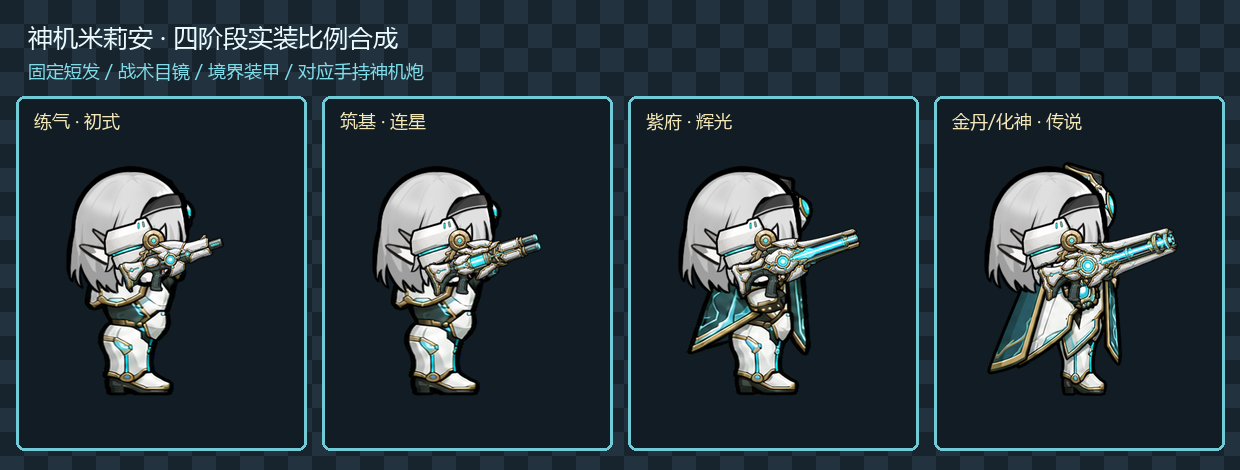
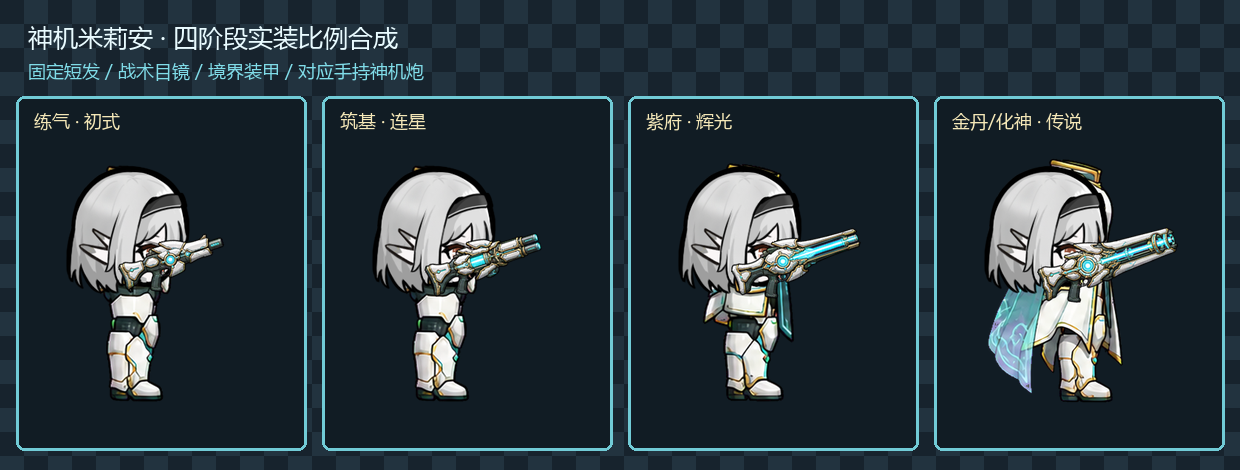
Fix Yunjianzi fringe and Shenji carried-weapon silhouette

diff --git a/Source/rebuild_hair_and_render_structure.py b/Source/rebuild_hair_and_render_structure.py
@@ -73,7 +73,7 @@ def tint_south_hair_tips(image: Image.Image) -> Image.Image:
     """
     result = image.copy().convert("RGBA")
     pixels = result.load()
-    start_y, end_y = 318, 452
+    start_y, end_y = 306, 402
     target = (112, 211, 232)
     for y in range(start_y, min(end_y + 1, result.height)):
         vertical = max(0.0, min(1.0, (y - start_y) / (end_y - start_y)))
@@ -118,16 +118,28 @@ def tint_front_fringe(image: Image.Image, direction: str) -> Image.Image:
     return result
 
 
-def lengthen_south_fringe(image: Image.Image) -> Image.Image:
-    """Lower the approved front fringe without scaling the side locks.
+def reshape_south_front(image: Image.Image) -> Image.Image:
+    """Increase central fringe volume while shortening only the side locks.
 
-    Only the central bang mass is stretched; the outer long locks and skull
-    attachment remain on their calibrated Milira anchors.
+    The previous revision interpreted "more forehead hair" as longer side
+    strands.  This pass keeps the central fringe at the approved eye line,
+    widens it across the forehead, and compresses the two lateral locks so the
+    separate rear-hair silhouette remains visible from the south view.
     """
     result = image.copy().convert("RGBA")
-    box = (190, 220, 322, 311)
-    fringe = image.crop(box).resize((box[2] - box[0], 108), Image.Resampling.LANCZOS)
-    result.alpha_composite(fringe, (box[0], box[1]))
+
+    # Shorten the lower halves of the two side locks without moving their
+    # temple anchors.  The tapered cyan tips are preserved by compression.
+    for box in ((170, 286, 232, 460), (280, 286, 342, 460)):
+        lower = image.crop(box).resize((box[2] - box[0], 116), Image.Resampling.LANCZOS)
+        result.paste((0, 0, 0, 0), box)
+        result.alpha_composite(lower, (box[0], box[1]))
+
+    # Widen, rather than lengthen, the central bang mass.  Its lower edge stays
+    # at y=311, so the eyes remain open and the jade chain keeps its anchor.
+    box = (210, 220, 302, 311)
+    fringe = image.crop(box).resize((124, box[3] - box[1]), Image.Resampling.LANCZOS)
+    result.alpha_composite(fringe, (194, box[1]))
     return result
 
 
@@ -228,7 +240,7 @@ def rebuild_hair() -> None:
     # South keeps the approved fringe and north keeps the tied rear silhouette.
     # East/west use one coherent profile redraw derived from the fixed Milira
     # head; mirroring that source guarantees identical skull attachment points.
-    front_south = tint_south_hair_tips(lengthen_south_fringe(rgba(CALIBRATED_FRONT / "YunjianziHairFront_south.png")))
+    front_south = tint_south_hair_tips(reshape_south_front(rgba(CALIBRATED_FRONT / "YunjianziHairFront_south.png")))
     back_south = extract_component(master, (220, 380, 480, 990), (183, 316), (164, 160))
     back_north = extract_component(master, (1030, 380, 1290, 990), (185, 337), (163, 160))
     # The authored side sprite already frames the single native Milira ear.
@@ -246,16 +258,15 @@ def rebuild_hair() -> None:
     save_cell(unified_east, "HairFront", "YunjianziHairFront", "east")
     save_cell(back_north, "HairFront", "YunjianziHairFront", "north")
 
-    # Keep a native Milira HairBG node for variant linkage. The continuous long
-    # silhouette lives in HairMain; all rear sprites remain transparent so the
-    # exposed MiliraHead4 ear cannot be mistaken for a hole in a second wig.
-    save_cell(Image.new("RGBA", (512, 512)), "HairBack", "YunjianziHairBack", "south")
+    # South needs its real tied rear hair in HairBG.  It is deliberately behind
+    # the robe/head/front fringe, which lets its outer silhouette show from the
+    # front without ever covering the face.
+    save_cell(back_south, "HairBack", "YunjianziHairBack", "south")
     save_cell(Image.new("RGBA", (512, 512)), "HairBack", "YunjianziHairBack", "west")
     save_cell(Image.new("RGBA", (512, 512)), "HairBack", "YunjianziHairBack", "east")
     save_cell(Image.new("RGBA", (512, 512)), "HairBack", "YunjianziHairBack", "north")
 
-    # Preserve the complete south rear-hair source for future animation work;
-    # it is deliberately not loaded by the current foreground addon.
+    # Preserve the complete south rear-hair source used by the loaded HairBG.
     source_copy = MOD_ROOT / "ArtSource" / "LayerSheets" / "Yunjianzi_HairBack_south_source.png"
     back_south.save(source_copy, optimize=True)
 

diff --git a/Source/rebuild_shenji_armor_v4.py b/Source/rebuild_shenji_armor_v4.py
@@ -1,8 +1,10 @@
-"""Build the three Shenji armor tiers from the approved 3x4 orthographic atlas.
+"""Build the three Shenji armor tiers from the arm-free 3x4 atlas.
 
-The generated atlas is only a design source.  This deterministic pass removes
+The generated atlas is only a design source. This deterministic pass removes
 the layout padding, scales every direction onto the native 512px Milian pawn
-canvas, and writes the exact apparel paths loaded by RimWorld.
+canvas, and writes the exact apparel paths loaded by RimWorld. The rigid arms
+and shoulders are intentionally absent: Milian weapons use the separate
+PawnRenderNode_Carried pipeline and cannot pose apparel-painted limbs.
 """
 
 from pathlib import Path
@@ -11,7 +13,7 @@ from PIL import Image
 
 
 MOD = Path(__file__).resolve().parents[1]
-ATLAS = MOD / "ArtSource" / "GeneratedAssets" / "Shenji" / "ShenjiArmor_Orthographic_Rebuild_v4_transparent.png"
+ATLAS = MOD / "ArtSource" / "GeneratedAssets" / "Shenji" / "ShenjiArmor_Orthographic_Armless_v5_transparent.png"
 OUTPUT = MOD / "Content" / "Textures" / "Yunjianzi" / "Apparel" / "Shenji"
 
 ROWS = ("Base", "Intermediate", "Final")
